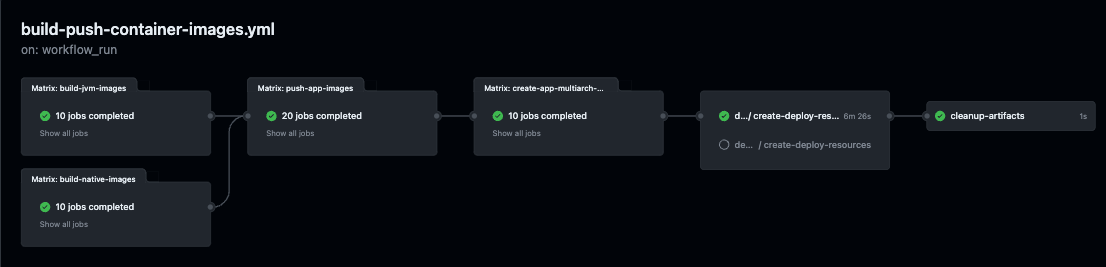
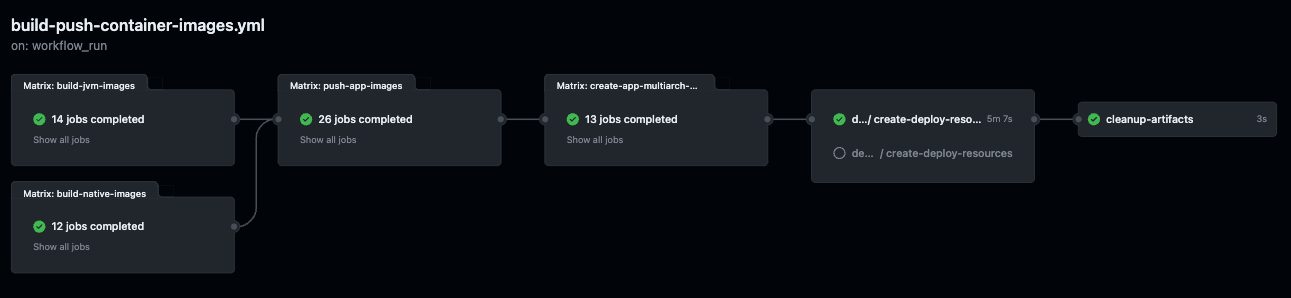
Update automation docs

Changed region(s): [[0.0, 0.2397, 1.0, 0.9288], [0.0, 0.0599, 0.2459, 0.2097]]

diff --git a/docs/automation.md b/docs/automation.md
@@ -25,7 +25,7 @@ The [Basic building and testing](../.github/workflows/simple-build-test.yml) wor
 It runs whenever code is pushed to the `main` branch as well as upon any pull requests.
    > The workflow can also be [triggered manually](https://docs.github.com/en/actions/managing-workflow-runs/manually-running-a-workflow).
 
-It runs `./mvnw clean verify` and `./mvnw clean verify -Pnative` on the [`event-statistics`](../event-statistics), [`rest-fights`](../rest-fights), [`rest-heroes`](../rest-heroes), [`rest-villains`](../rest-villains), and [`ui-super-heroes`](../ui-super-heroes) applications on Java 17.
+It runs `./mvnw clean verify` and `./mvnw clean verify -Pnative` on the [`event-statistics`](../event-statistics), [`rest-fights`](../rest-fights), [`rest-heroes`](../rest-heroes), [`rest-villains`](../rest-villains), [`rest-narration`](../rest-narration/deploy), [`grpc-locations`](../grpc-locations/deploy), and [`ui-super-heroes`](../ui-super-heroes) applications on Java 17.
 
 ## Build and push container images workflow
 The [Build and push container images](../.github/workflows/build-push-container-images.yml) workflow does pretty much what it sounds like: builds and pushes container images. For JVM images, it builds both `amd64` and `arm64` images. Multi-arch native images are coming soon.
@@ -46,7 +46,7 @@ This image is a visual of what the workflow consists of:
 ![build-push-images-workflow](../images/build-push-container-images-workflow.png)
 
 ### Build JVM container images job
-This job [Builds JVM container images](https://quarkus.io/guides/container-image#building) for the [`event-statistics`](../event-statistics), [`rest-fights`](../rest-fights), [`rest-heroes`](../rest-heroes), [`rest-villains`](../rest-villains), and  [`ui-super-heroes`](../ui-super-heroes) applications on Java 17 (both amd64 & arm64 platforms) using the [Docker Build action](https://github.com/docker/build-push-action).
+This job [Builds JVM container images](https://quarkus.io/guides/container-image#building) for the [`event-statistics`](../event-statistics), [`rest-fights`](../rest-fights), [`rest-heroes`](../rest-heroes), [`rest-villains`](../rest-villains), [`rest-narration`](../rest-narration/deploy), [`grpc-locations`](../grpc-locations/deploy), and  [`ui-super-heroes`](../ui-super-heroes) applications on Java 17 (both amd64 & arm64 platforms) using the [Docker Build action](https://github.com/docker/build-push-action).
 
 Each container image created has 4 tags:
 - `{{app-version}}-quarkus-{{quarkus-version}}-java{{java-version}}-amd64`
@@ -58,12 +58,15 @@ Each container image created has 4 tags:
 > - Replace `{{quarkus-version}}` with Quarkus version the application uses (i.e. `3.0.3.Final`).
 > - Replace `{{java-version}}` with the Java version the application was built with (i.e. `17`).
 
-There are a total of 8 images built (4 applications x 1 JVM version x 2 platforms).
+There are a total of 14 images built (7 applications x 1 JVM version x 2 platforms).
       
 ### Build native container images job
 This job runs in parallel with the [_Build JVM container images_](#build-jvm-container-images-job) job.
 
-The job [Builds native executable container images](https://quarkus.io/guides/building-native-image#using-the-container-image-extensions) for the [`event-statistics`](../event-statistics), [`rest-fights`](../rest-fights), [`rest-heroes`](../rest-heroes), [`rest-villains`](../rest-villains), and  [`ui-super-heroes`](../ui-super-heroes) applications using [Mandrel](https://github.com/graalvm/mandrel).
+The job [Builds native executable container images](https://quarkus.io/guides/building-native-image#using-the-container-image-extensions) for the [`event-statistics`](../event-statistics), [`rest-fights`](../rest-fights), [`rest-heroes`](../rest-heroes), [`rest-villains`](../rest-villains), [`grpc-locations`](../grpc-locations/deploy), and  [`ui-super-heroes`](../ui-super-heroes) applications using [Mandrel](https://github.com/graalvm/mandrel).
+
+> [!NOTE]
+> The [`rest-narration`](../rest-narration) application currently doesn't support native compilation
 
 Each container image created has 4 tags:
 - `{{app-version}}-quarkus-{{quarkus-version}}-native-amd64`
@@ -74,7 +77,7 @@ Each container image created has 4 tags:
 > - Replace `{{app-version}}` with the application version (i.e. `1.0`).
 > - Replace `{{quarkus-version}}` with Quarkus version the application uses (i.e. `3.0.3.Final`).
 
-There are a total of 10 images built (5 applications x 2 platforms).
+There are a total of 12 images built (6 applications x 2 platforms).
 
 ### Push application container images job
 Runs after successful completion of the [_Build JVM container image_](#build-jvm-container-images-job) and [_Build native container image_](#build-native-container-images-job) jobs.
@@ -92,7 +95,7 @@ The [Create deploy resources](../.github/workflows/create-deploy-resources.yml) 
 It only runs on pushes to the `main` branch after successful completion of the [_Build and push container images_](#build-and-push-container-images-workflow) workflow.
    > The workflow can also be [triggered manually](https://docs.github.com/en/actions/managing-workflow-runs/manually-running-a-workflow).
 
-All generated resources are subsequently pushed back into the repo by the action in a single commit.
+All generated resources are committed to a new branch and a pull request is opened, which is subsequently approved and merged automatically. The reason for the pull request is because the repository has branch protection rules enabled and can't commit directly to the branch.
 
 ## Cleanup artifacts
 The cleanup artifacts job is responsible for cleaning up and deleting all artifacts produced by all the other jobs in the workflow. Many container images are created, stored, and shared amongst all the jobs. This could result in several gigabytes of storage used by each instance of the workflow.
@@ -100,7 +103,7 @@ The cleanup artifacts job is responsible for cleaning up and deleting all artifa
 This job will always run regardless of the status of the other jobs in the workflow. It uses the [`delete-run-artifacts` GitHub action](https://github.com/marketplace/actions/delete-run-artifacts) to perform its work.
 
 # Application resource generation
-The resources and descriptors in the [root `deploy` directory](../deploy) as well as in each individual project's `deploy` directory ([`event-statistics`](../event-statistics/deploy), [`rest-fights`](../rest-fights/deploy), [`rest-heroes`](../rest-heroes/deploy), [`rest-villains`](../rest-villains/deploy), and [`ui-super-heroes`](../ui-super-heroes/deploy)) are used for deploying the entire system or subsets of it into various environments (i.e. Docker compose, OpenShift, Minikube, Kubernetes, etc).
+The resources and descriptors in the [root `deploy` directory](../deploy) as well as in each individual project's `deploy` directory ([`event-statistics`](../event-statistics/deploy), [`rest-fights`](../rest-fights/deploy), [`rest-heroes`](../rest-heroes/deploy), [`rest-villains`](../rest-villains/deploy), [`rest-narration`](../rest-narration/deploy), [`grpc-locations`](../grpc-locations/deploy), and [`ui-super-heroes`](../ui-super-heroes/deploy)) are used for deploying the entire system or subsets of it into various environments (i.e. Docker compose, OpenShift, Minikube, Kubernetes, etc).
 
 Resources in these directories are generated by the [_Create deploy resources_ workflow](#create-deploy-resources-workflow) mentioned in the previous section. Any manual changes made to anything in any of those directories will be overwritten by the workflow upon its next execution.
 
@@ -108,7 +111,7 @@ Resources in these directories are generated by the [_Create deploy resources_ w
 Kubernetes resources are generated into a `deploy/k8s` directory, either in the [project root directory](../deploy/k8s) or in each individual project's directory.
 
 ### Quarkus projects
-Each Quarkus project ([`event-statistics`](../event-statistics), [`rest-fights`](../rest-fights), [`rest-heroes`](../rest-heroes), [`rest-villains`](../rest-villains),  [`ui-super-heroes`](../ui-super-heroes)) uses the [Quarkus Kubernetes extension](https://quarkus.io/guides/deploying-to-kubernetes) to generate Kubernetes and Knative manifests, the [Quarkus Minikube extension](https://quarkus.io/guides/deploying-to-kubernetes#deploying-to-minikube) to generate Minikube manifests, and the [Quarkus OpenShift extension](https://quarkus.io/guides/deploying-to-openshift) to generate OpenShift manifests.
+Each Quarkus project ([`event-statistics`](../event-statistics), [`rest-fights`](../rest-fights), [`rest-heroes`](../rest-heroes), [`rest-villains`](../rest-villains), [`rest-narration`](../rest-narration/deploy), [`grpc-locations`](../grpc-locations/deploy), [`ui-super-heroes`](../ui-super-heroes)) uses the [Quarkus Kubernetes extension](https://quarkus.io/guides/deploying-to-kubernetes) to generate Kubernetes and Knative manifests, the [Quarkus Minikube extension](https://quarkus.io/guides/deploying-to-kubernetes#deploying-to-minikube) to generate Minikube manifests, and the [Quarkus OpenShift extension](https://quarkus.io/guides/deploying-to-openshift) to generate OpenShift manifests.
 
 These extensions generate the manifests needed for the application itself but not for any other services. [These extensions can also incorporate additional resources](https://quarkus.io/guides/deploying-to-kubernetes#using-existing-resources) by placing additional resources in each project's `src/main/kubernetes` directory.
 
@@ -116,7 +119,7 @@ The [`generate-k8s-resources.sh` script](../scripts/generate-k8s-resources.sh) l
 
 The [`generate-k8s-resources.sh` script](../scripts/generate-k8s-resources.sh) additionally creates the monitoring (Prometheus/Jaeger/OpenTelemetry Collector) descriptors within the [root `deploy/k8s` directory](../deploy/k8s) for each Kubernetes variant platform.
 
-In the [`rest-fights` project](../rest-fights), the [`generate-k8s-resources.sh` script](../scripts/generate-k8s-resources.sh) additionally copies in generated resources from the [`rest-heroes`](../rest-heroes) and [`rest-villains`](../rest-villains) projects into the `all-downstream.yml` files in the [`deploy/k8s` directory of the `rest-fights` project](../rest-fights/deploy/k8s).
+In the [`rest-fights` project](../rest-fights), the [`generate-k8s-resources.sh` script](../scripts/generate-k8s-resources.sh) additionally copies in generated resources from the [`rest-heroes`](../rest-heroes), [`rest-villains`](../rest-villains), [`rest-narration`](../rest-narration), and [`grpc-locations`](../grpc-locations) projects into the `all-downstream.yml` files in the [`deploy/k8s` directory of the `rest-fights` project](../rest-fights/deploy/k8s).
 
 ## Docker compose resource generation
 Docker compose resource generation follows a similar pattern as the [Kubernetes resource generation](#kubernetes-and-variants-resource-generation).
@@ -124,7 +127,7 @@ Docker compose resource generation follows a similar pattern as the [Kubernetes 
 Docker compose resources are generated into a `deploy/docker-compose` directory, either in the [project root directory](../deploy/docker-compose) or in each individual project's directory.
 
 ### Quarkus projects
-Each Quarkus project ([`event-statistics`](../event-statistics/src/main/docker-compose), [`rest-fights`](../rest-fights/src/main/docker-compose), [`rest-heroes`](../rest-heroes/src/main/docker-compose), [`rest-villains`](../rest-villains/src/main/docker-compose)) contains a `src/main/docker-compose` directory.
+Each Quarkus project ([`event-statistics`](../event-statistics/src/main/docker-compose), [`rest-fights`](../rest-fights/src/main/docker-compose), [`rest-heroes`](../rest-heroes/src/main/docker-compose), [`rest-villains`](../rest-villains/src/main/docker-compose), [`rest-narration`](../rest-narration/deploy), [`grpc-locations`](../grpc-locations/deploy)) contains a `src/main/docker-compose` directory.
 
 Inside this directory are a set of yaml files with a particular naming convention: `infra.yml`, `java{{java-version}}.yml`, and `native.yml`. Each of these files contains what we are calling _Docker compose snippets_. These snippets aren't a complete Docker compose file on their own. Instead, they contain service definitions that will ultimately end up inside the `services` block in a Docker compose file.
 
